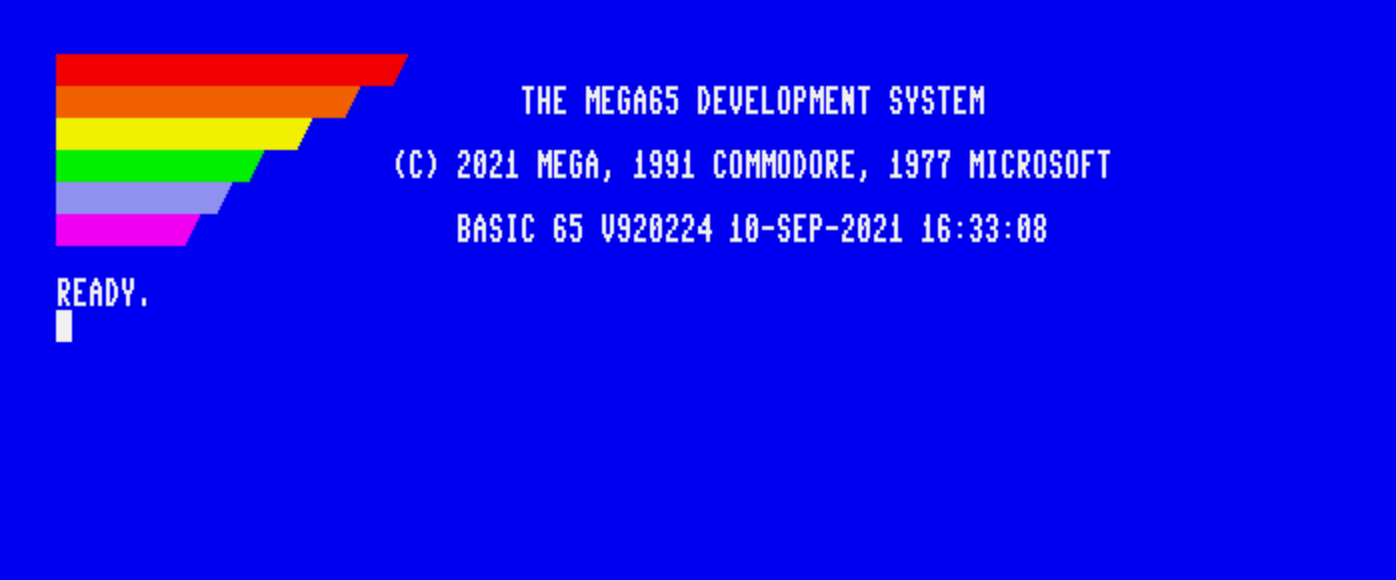
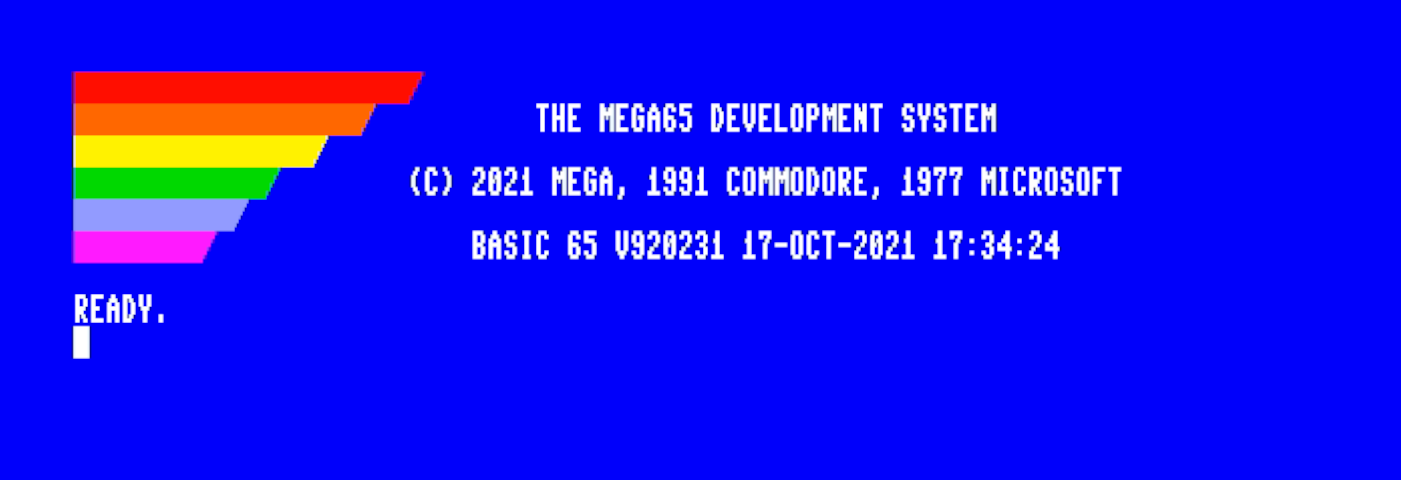
Improve screenshots for configuring section (#349)

Changed region(s): [[0.0308, 0.0938, 0.8009, 0.75], [0.2772, 0.3438, 0.8009, 0.4375], [0.3388, 0.4688, 0.7701, 0.5625]]

diff --git a/configuring.tex b/configuring.tex
@@ -221,7 +221,7 @@ Note that while this fileset does not contain a ROM, there are future plans for 
 On first launch of your MEGA65, you will see the on-boarding screen.
 
 \begin{center}
-  \includegraphics[trim= 10mm 10mm 10mm 10mm,clip,width=0.7\linewidth]{images/img011_final_boot_01.jpg}
+  \includegraphics[trim= 10mm 15mm 10mm 10mm,clip,width=0.7\linewidth]{images/img011_final_boot_01.png}
 \end{center}
 
 Here you can select and test you screen configuration.
@@ -229,19 +229,19 @@ Here you can select and test you screen configuration.
 For example, press \specialkey{TAB} to switch to PAL 50HZ
 
 \begin{center}
-  \includegraphics[trim= 15mm 10mm 10mm 10mm,clip,width=0.7\linewidth]{images/img011_final_boot_02.png}
+  \includegraphics[width=0.7\linewidth]{images/img011_final_boot_02.png}
 \end{center}
 
 Then press \specialkey{RETURN} , followed by \megakey{Y} to test the new video mode.
 
 \begin{center}
-  \includegraphics[trim= 15mm 10mm 10mm 15mm,clip,width=0.7\linewidth]{images/img011_final_boot_03.jpg}
+  \includegraphics[trim= 15mm 10mm 10mm 15mm,clip,width=0.7\linewidth]{images/img011_final_boot_03.png}
 \end{center}
 
 Press \megakey{K} to keep the new video mode.
 
 \begin{center}
-  \includegraphics[trim= 20mm 20mm 10mm 25mm,clip,width=0.7\linewidth]{images/img011_final_boot_04.jpg}
+  \includegraphics[trim= 20mm 20mm 10mm 25mm,clip,width=0.7\linewidth]{images/img011_final_boot_04.png}
 \end{center}
 
 Press \specialkey{RETURN} to complete the configuration.
